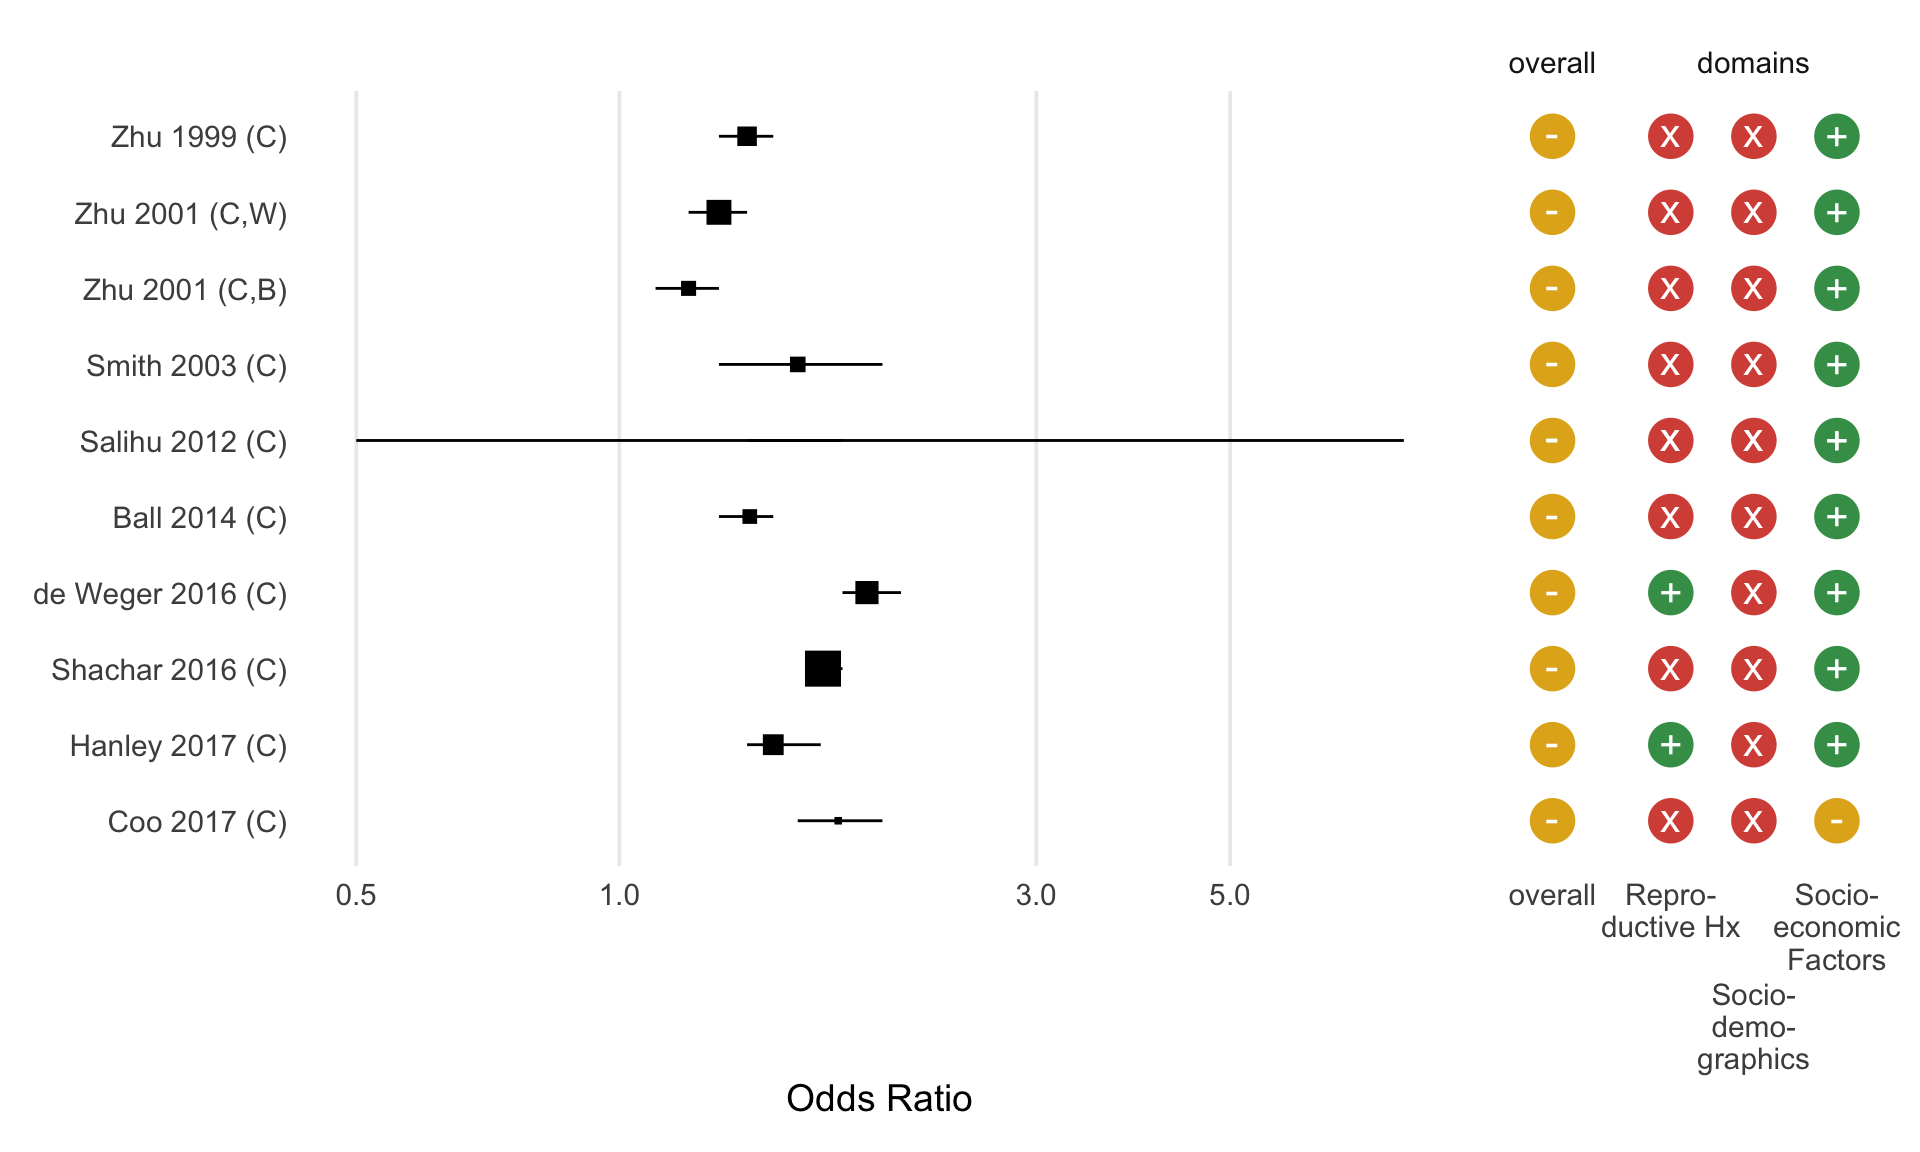
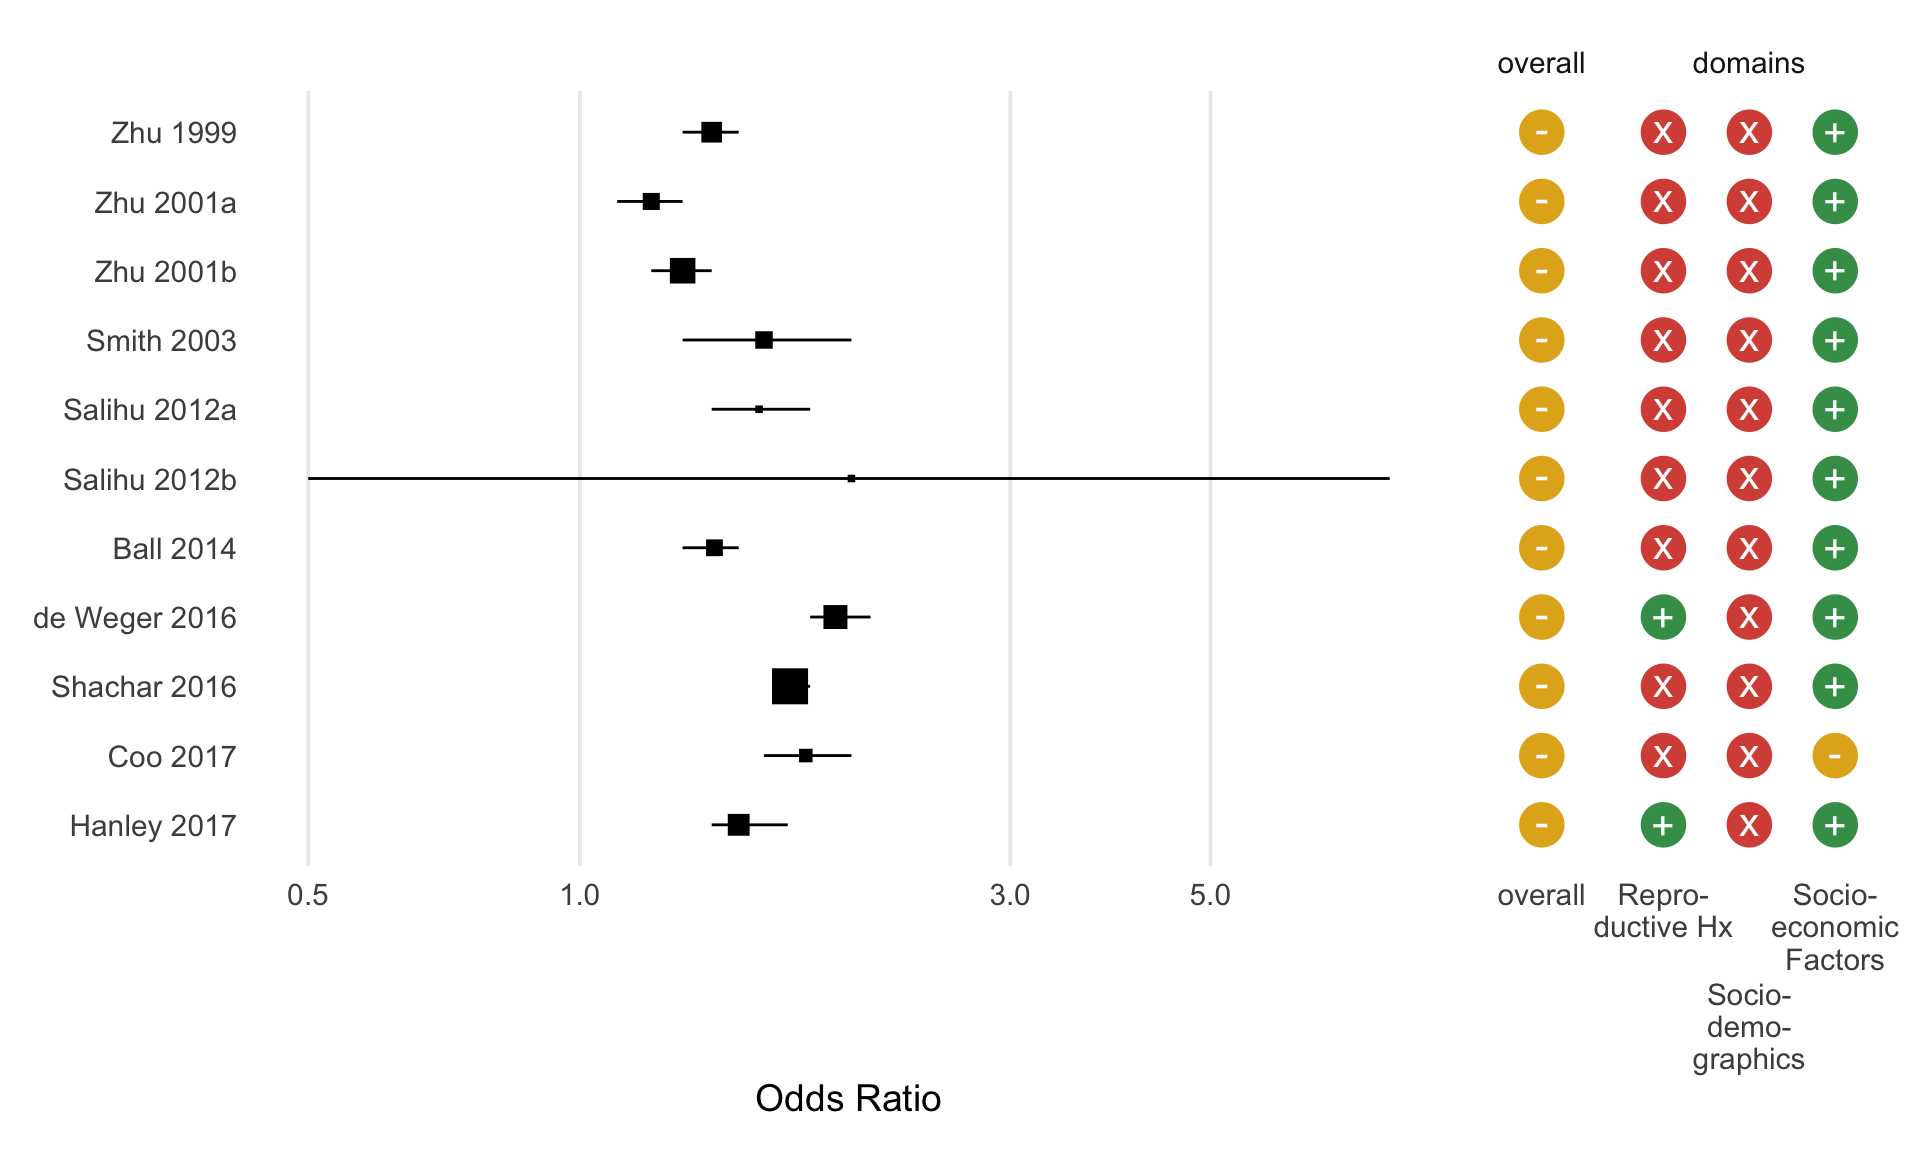
Built site for metaconfoundr: 0.0.0.9000@fb8d8cd

diff --git a/articles/intro-to-metaconfoundr.html b/articles/intro-to-metaconfoundr.html
@@ -243,16 +243,15 @@
 <div class="sourceCode" id="cb11"><pre class="downlit">
 <span class="kw">sort_by_year</span> <span class="op">&lt;-</span> <span class="fu">function</span>(<span class="kw">.df</span>) {
   <span class="kw">.df</span> <span class="op">%&gt;%</span> 
-    <span class="fu"><a href="https://dplyr.tidyverse.org/reference/arrange.html">arrange</a></span>(<span class="fu"><a href="https://dplyr.tidyverse.org/reference/desc.html">desc</a></span>(<span class="kw">year</span>)) <span class="op">%&gt;%</span> 
-    <span class="fu"><a href="https://dplyr.tidyverse.org/reference/mutate.html">mutate</a></span>(
-      study = <span class="fu"><a href="https://rdrr.io/r/base/paste.html">paste0</a></span>(<span class="kw">lead_author</span>, <span class="st">" "</span>, <span class="kw">year</span>, <span class="st">" ("</span>, <span class="kw">design</span>, <span class="st">")"</span>),
-      study = <span class="kw">forcats</span>::<span class="fu"><a href="https://forcats.tidyverse.org/reference/fct_inorder.html">fct_inorder</a></span>(<span class="kw">study</span>)
-    )
+    <span class="fu"><a href="https://dplyr.tidyverse.org/reference/arrange.html">arrange</a></span>(<span class="fu"><a href="https://dplyr.tidyverse.org/reference/desc.html">desc</a></span>(<span class="kw">year</span>), <span class="fu"><a href="https://dplyr.tidyverse.org/reference/desc.html">desc</a></span>(<span class="kw">study</span>)) <span class="op">%&gt;%</span> 
+    <span class="fu"><a href="https://dplyr.tidyverse.org/reference/mutate.html">mutate</a></span>(study = <span class="kw">forcats</span>::<span class="fu"><a href="https://forcats.tidyverse.org/reference/fct_inorder.html">fct_inorder</a></span>(<span class="kw">study</span>))
 }
 
 <span class="kw">forest_plot</span> <span class="op">&lt;-</span> <span class="fu">function</span>(<span class="kw">.df</span>) {
    <span class="kw">.df</span> <span class="op">%&gt;%</span> 
     <span class="fu">sort_by_year</span>() <span class="op">%&gt;%</span> 
+    <span class="co"># set small weight for missing sample size</span>
+    <span class="fu"><a href="https://dplyr.tidyverse.org/reference/mutate.html">mutate</a></span>(sample_size = <span class="fu"><a href="https://rdrr.io/r/base/ifelse.html">ifelse</a></span>(<span class="fu"><a href="https://rdrr.io/r/base/NA.html">is.na</a></span>(<span class="kw">sample_size</span>), <span class="fl">1</span>, <span class="kw">sample_size</span>)) <span class="op">%&gt;%</span> 
     <span class="fu"><a href="https://ggplot2.tidyverse.org/reference/ggplot.html">ggplot</a></span>(<span class="fu"><a href="https://ggplot2.tidyverse.org/reference/aes.html">aes</a></span>(x = <span class="kw">estimate</span>, y = <span class="kw">study</span>)) <span class="op">+</span> 
     <span class="co">#  add effect estimates</span>
     <span class="fu"><a href="https://ggplot2.tidyverse.org/reference/geom_point.html">geom_point</a></span>(<span class="fu"><a href="https://ggplot2.tidyverse.org/reference/aes.html">aes</a></span>(size = <span class="kw">sample_size</span>), shape = <span class="fl">15</span>) <span class="op">+</span>
@@ -275,7 +274,6 @@
 <span class="kw">fp</span> <span class="op">&lt;-</span> <span class="fu">forest_plot</span>(<span class="kw">ipi_metaanalysis</span>)
 
 <span class="kw">fp</span>
-<span class="co">#&gt; Warning: Removed 2 rows containing missing values (geom_point).</span>
 </pre></div>
 <p><img src="intro-to-metaconfoundr_files/figure-html/unnamed-chunk-11-1.png" width="768"></p>
 <div class="sourceCode" id="cb12"><pre class="downlit">
@@ -310,7 +308,6 @@
   <span class="kw">tl_plot</span> <span class="op">+</span> <span class="fu"><a href="https://ggplot2.tidyverse.org/reference/theme.html">theme</a></span>(axis.text.y = <span class="fu"><a href="https://ggplot2.tidyverse.org/reference/element.html">element_blank</a></span>(), legend.position = <span class="st">"none"</span>) <span class="op">+</span>
   <span class="co"># make the FP thrice as as wide as the TLP</span>
   <span class="fu"><a href="https://patchwork.data-imaginist.com/reference/plot_layout.html">plot_layout</a></span>(widths = <span class="fu"><a href="https://rdrr.io/r/base/c.html">c</a></span>(<span class="fl">3</span>, <span class="fl">1</span>))
-<span class="co">#&gt; Warning: Removed 2 rows containing missing values (geom_point).</span>
 </pre></div>
 <p><img src="intro-to-metaconfoundr_files/figure-html/unnamed-chunk-13-1.png" width="960"></p>
 <div id="using-control-quality-as-an-analytic-category" class="section level2">
